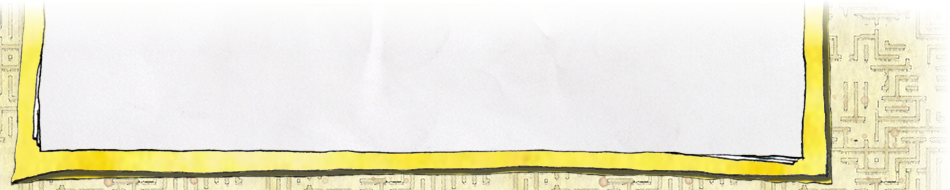
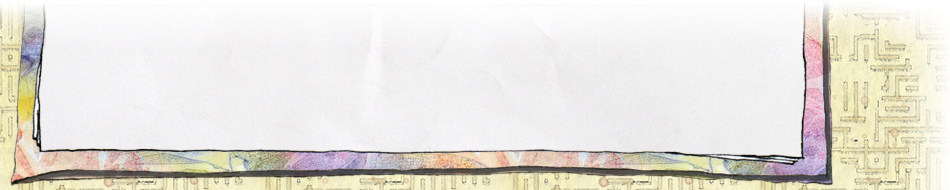
Tie-dye folder for Sheila!

Changed region(s): [[0.0, 0.0789, 0.8853, 0.9737]]

diff --git a/web/sheila_sunshine/style.css b/web/sheila_sunshine/style.css
@@ -7,7 +7,7 @@
   width: 310px;
 }
 #folder {
-  background-image: url("yellow-seamless-swatch.jpg");
+  background-image: url("multicolor-seamless-swatch.jpg");
 }
 #footer {
   background-image: url("bottom-tile.png");
